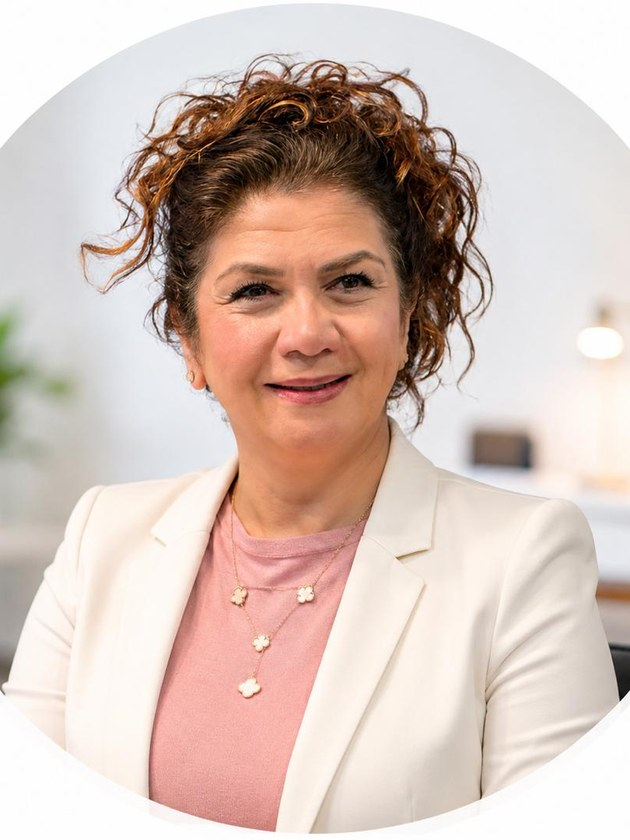
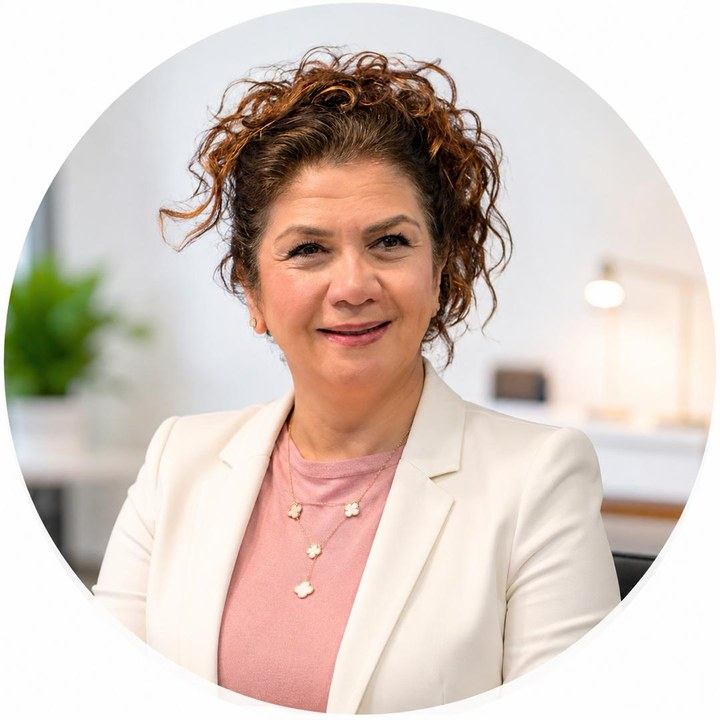
fix: show full portrait, shift CSS focal point to face (not top of head)
Previous crop was cutting top of hair off because CSS used
object-position: center top (anchors top, crops bottom). With the
new headshot where face sits in upper-middle of frame, that meant
viewers saw forehead + cropped hair, no shoulders.

Fix:
1. Re-save photos at full source aspect (no Python crop) — let
   CSS object-fit:cover handle final framing per container
2. Change object-position from 'center top' to 'center 25%' across
   2 files (about.html + parents.html) — shifts visible window
   down by 25% so face is centered, hair-top stays in view, and
   shoulders are visible below

diff --git a/index.html b/index.html
@@ -465,7 +465,7 @@
         </div>
       </div>
       <div class="hmedia">
-        <img fetchpriority="high" decoding="async" width="779" height="1000" src="raheleh1.webp" alt="راحله اوینیپور — روانشناس فارسیزبان مقیم دبی" style="width:100%;height:100%;object-fit:cover;object-position:center top;border-radius:24px;">
+        <img fetchpriority="high" decoding="async" width="779" height="1000" src="raheleh1.webp" alt="راحله اوینیپور — روانشناس فارسیزبان مقیم دبی" style="width:100%;height:100%;object-fit:cover;object-position:center 25%;border-radius:24px;">
         <div class="statcard">
           <div><div class="num">+۱۵</div><div class="lbl">سال تجربهٔ مشاوره</div></div>
           <div><div class="num">+۳۰۰۰</div><div class="lbl">ساعت مشاوره</div></div>
@@ -510,7 +510,7 @@
 <section id="about" class="about">
   <div class="container">
     <div class="agrid">
-      <div><img decoding="async" loading="lazy" src="profile.webp" alt="راحله اوینیپور" style="width:100%;height:100%;object-fit:cover;object-position:center top;border-radius:50%"></div>
+      <div><img decoding="async" loading="lazy" src="profile.webp" alt="راحله اوینیپور" style="width:100%;height:100%;object-fit:cover;object-position:center 25%;border-radius:50%"></div>
       <div>
         <span class="kicker">درباره من</span>
         <h2>راحله اوینیپور</h2>

diff --git a/about.html b/about.html
@@ -301,7 +301,7 @@
           <a class="btn btn-ghost" href="contact.html">تماس با من</a>
         </div>
       </div>
-      <img decoding="async" src="about-hero.webp" alt="راحله اوینیپور" style="width:100%;height:460px;object-fit:cover;object-position:center top;border-radius:20px;">
+      <img decoding="async" src="about-hero.webp" alt="راحله اوینیپور" style="width:100%;height:460px;object-fit:cover;object-position:center 25%;border-radius:20px;">
     </div>
   </div>
 </section>
